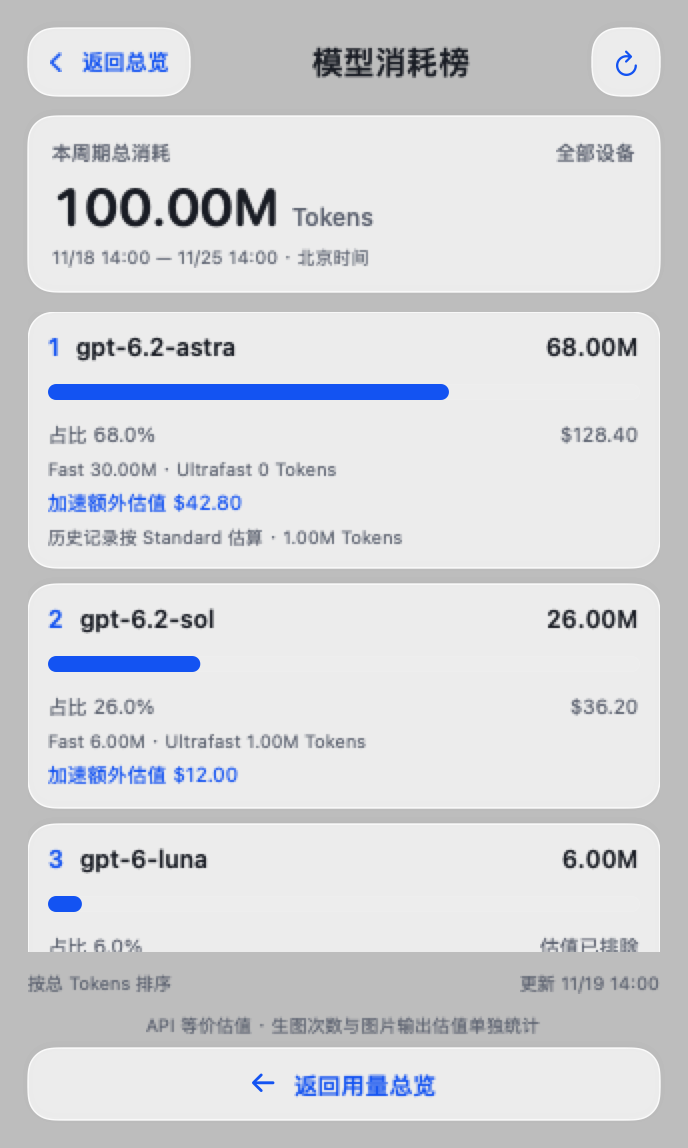
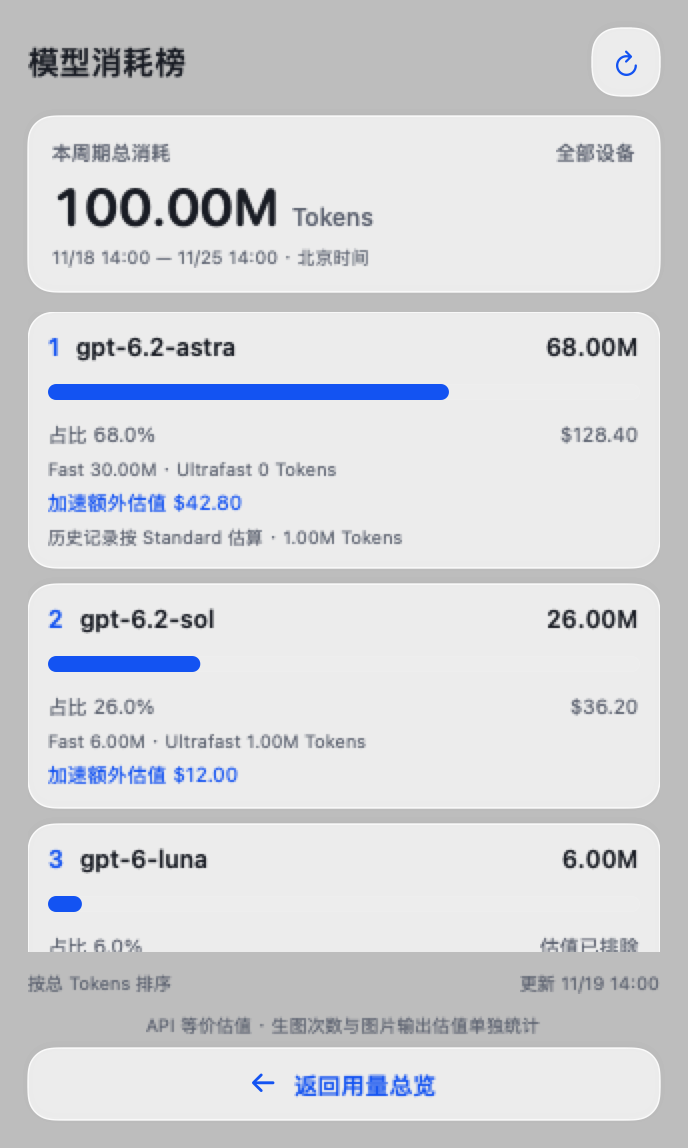
Keep a single bottom return action on model rankings
Version 0.4.5. Remove the upper-left back button, align the title left and retain refresh on the right. Keep the fixed bottom return button. Update the README and illustrative screenshot.

Validation: release build and hosting-controller navigation preview passed.

Changed region(s): [[0.0305, 0.0, 0.2747, 0.0915], [0.4578, 0.0305, 0.702, 0.0915]]

diff --git a/Sources/CodexQuotaApp/DashboardView.swift b/Sources/CodexQuotaApp/DashboardView.swift
@@ -214,16 +214,6 @@ struct DashboardView: View {
     private func rankingCard(now: Date) -> some View {
         VStack(alignment: .leading, spacing: 10) {
             HStack(spacing: 10) {
-                Button(action: model.showOverview) {
-                    Label("返回总览", systemImage: "chevron.left")
-                        .font(.system(size: 11, weight: .semibold))
-                        .foregroundColor(blue)
-                        .padding(.horizontal, 10).frame(height: 34)
-                        .contentShape(Rectangle())
-                }
-                .buttonStyle(ControlCenterButtonStyle())
-                .accessibilityHint("返回 Tokivue 用量总览，不关闭弹窗")
-                Spacer(minLength: 0)
                 Text("模型消耗榜").font(.system(size: 16, weight: .semibold))
                 Spacer(minLength: 0)
                 Button(action: model.refresh) {

diff --git a/README.md b/README.md
@@ -40,7 +40,7 @@ Tokivue 将本地用量采集器、Google Sheets 汇总接收端和 macOS 原生
 
 <img src="docs/images/model-rankings.png" alt="当前周期模型排行，含 Fast 额外估值；虚构示例数据" width="344" />
 
-0.4.4：弹窗按 SwiftUI 内容尺寸重新布局，修复切换页面后顶部裁切和底部残留空白；排行榜高度随内容收紧，长列表滚动，底部返回按钮固定可见；顶部和底部均可返回总览，重新打开弹窗默认显示总览。统计范围与当前周额度周期一致；缺少有效额度快照时等待同步。
+0.4.4：弹窗按 SwiftUI 内容尺寸重新布局，修复切换页面后顶部裁切和底部残留空白；排行榜高度随内容收紧，长列表滚动，底部返回按钮固定可见；仅保留底部返回总览按钮，重新打开弹窗默认显示总览。统计范围与当前周额度周期一致；缺少有效额度快照时等待同步。
 
 示意图使用虚构数据。Fast／Ultrafast Tokens 是实际 Tokens 中的档位分类，不会再乘倍率计入总 Tokens。
 
